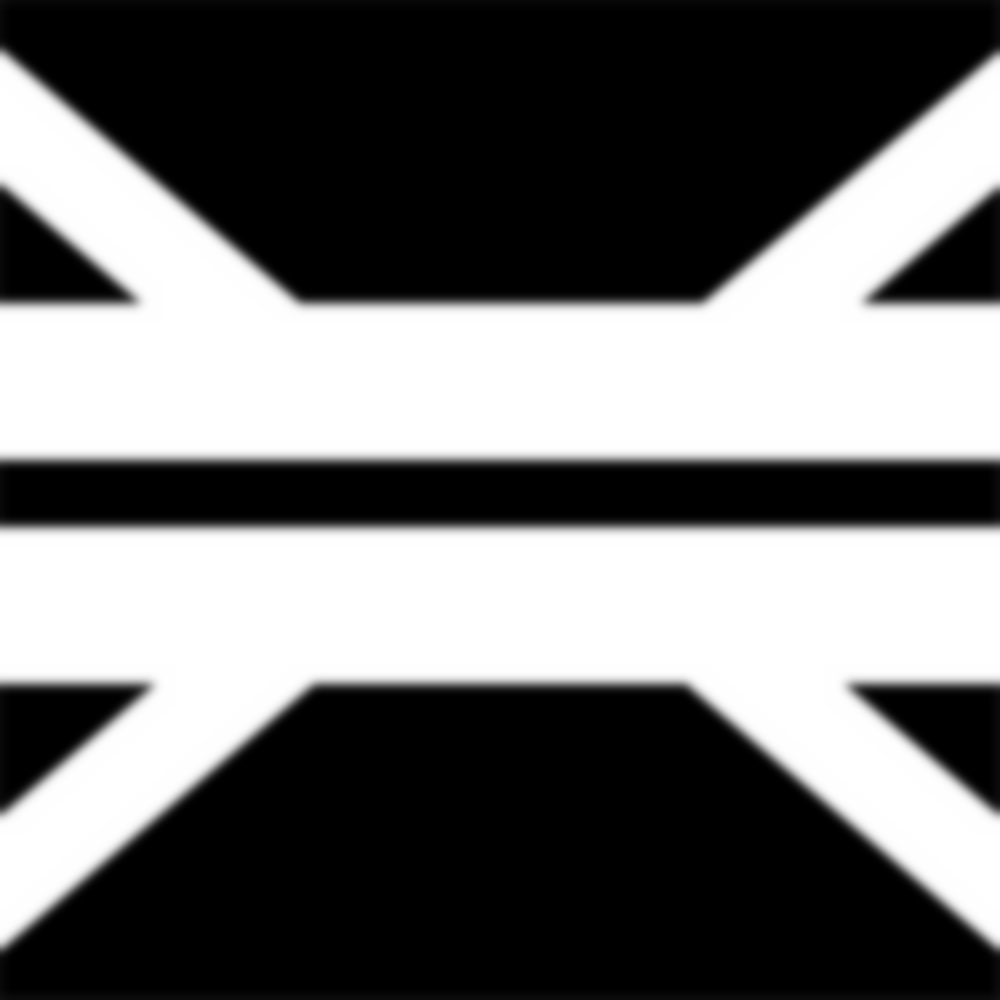
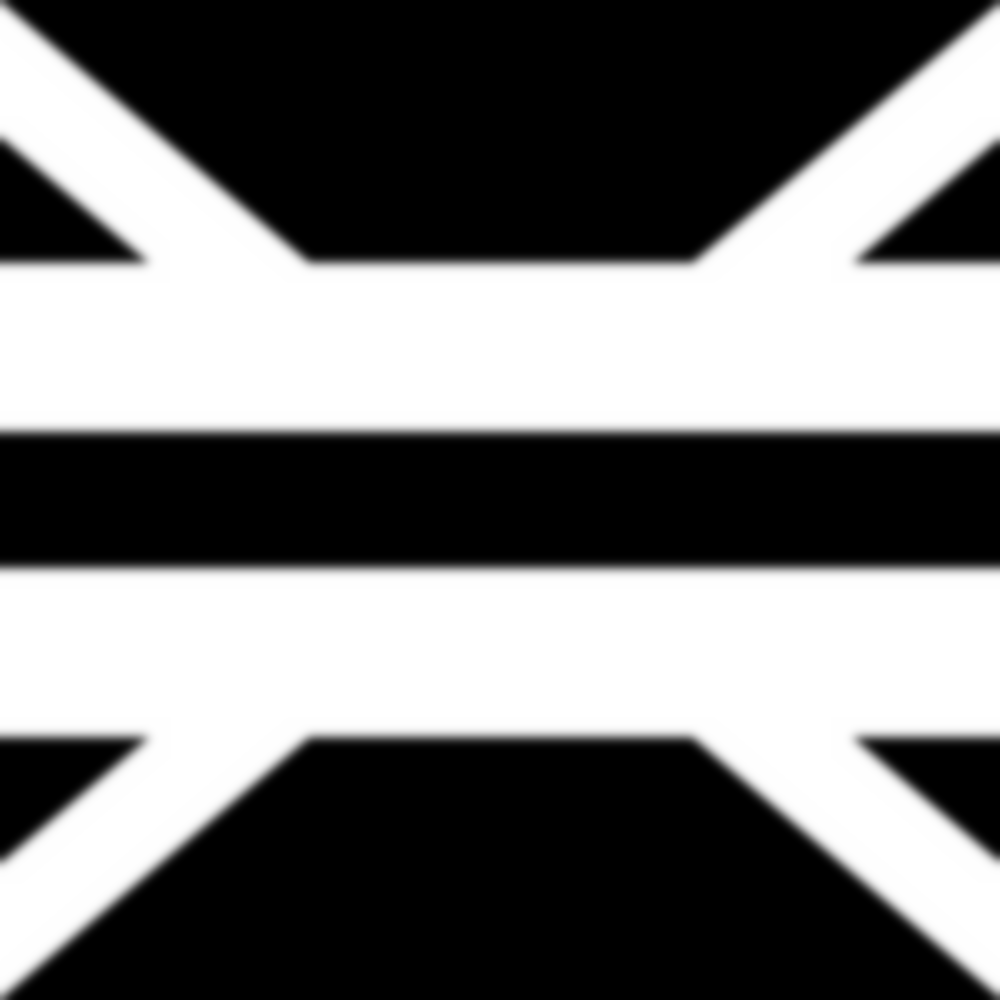
highway map updated, and follow-leader configuration made for highway map. Added turning points, correct on and off ramp behaviour. Need to update on ramp length

diff --git a/src/Simulator.cpp b/src/Simulator.cpp
@@ -52,6 +52,102 @@ Simulator::~Simulator()
 };
 
 /*******************************************************************************/
+// Draw highway roads and lanes
+/*******************************************************************************/
+void Simulator::draw_highway()
+{
+    // Parameters for the highway
+    int n_roads = 2;                                // Number of roads
+    int n_lanes = 2;                                // Number of lanes per road
+    double lane_width = 4.0 * globals.ROBOT_RADIUS; // Width of each lane
+    double road_length = globals.WORLD_SZ;          // Length of each road
+    double road_spacing = globals.WORLD_SZ / 3.3;   // Distance between roads
+    double ramp_length = road_length / 4.0;         // Length of on/off ramps
+    double ramp_angle = M_PI / 1.7;                 // Angle of the ramps to the road
+
+    // Ramp positions as variables
+    double on_ramp_start_pos = -road_length / 2.;
+    double on_ramp_end_pos = -road_length / 6.;
+    double off_ramp_start_pos = road_length / 6.0;
+    double off_ramp_end_pos = road_length / 1.8;
+
+    for (int road = 0; road < n_roads; ++road)
+    {
+        double road_v_offset = (road - 0.375) * road_spacing;
+        bool flip_ramps = (road % 2 != 0); // Flip ramps on one road
+
+        // Draw the main highway lanes
+        for (int lane = 0; lane < n_lanes; ++lane)
+        {
+            double lane_v_offset = road_v_offset + (0.5 * (1 - 2.0 * n_lanes) + lane) * lane_width;
+
+            Eigen::VectorXd start_point = Eigen::VectorXd{{-road_length / 2.0, lane_v_offset, 0.0, 0.0}};
+            Eigen::VectorXd end_point = Eigen::VectorXd{{road_length / 2.0, lane_v_offset, 0.0, 0.0}};
+
+            // DrawLine3D(
+            //     Vector3{static_cast<float>(start_point(0)), 0.0f, static_cast<float>(start_point(1))},
+            //     Vector3{static_cast<float>(end_point(0)), 0.0f, static_cast<float>(end_point(1))},
+            //     BLUE);
+        }
+
+        // Draw the on and off ramps for each road
+        for (int lane = 0; lane < n_lanes; ++lane)
+        {
+            double lane_v_offset = road_v_offset + (0.5 * (1 - 2.0 * n_lanes) + lane) * lane_width;
+
+            if (flip_ramps)
+            {
+                // On ramp (flipped horizontally)
+                double on_ramp_start_x = on_ramp_start_pos - ramp_length * cos(ramp_angle);
+                double on_ramp_start_y = lane_v_offset + ramp_length * sin(ramp_angle) - lane_width;
+                double on_ramp_end_x = on_ramp_end_pos;
+                double on_ramp_end_y = lane_v_offset;
+
+                // DrawLine3D(
+                //     Vector3{static_cast<float>(on_ramp_start_x), 0.0f, static_cast<float>(on_ramp_start_y)},
+                //     Vector3{static_cast<float>(on_ramp_end_x), 0.0f, static_cast<float>(on_ramp_end_y)},
+                //     GREEN);
+
+                // Off ramp
+                double off_ramp_start_x = off_ramp_start_pos;
+                double off_ramp_start_y = lane_v_offset;
+                double off_ramp_end_x = off_ramp_end_pos + ramp_length * cos(ramp_angle);
+                double off_ramp_end_y = lane_v_offset + ramp_length * sin(ramp_angle) + lane_width;
+
+                // DrawLine3D(
+                //     Vector3{static_cast<float>(off_ramp_start_x), 0.0f, static_cast<float>(off_ramp_start_y)},
+                //     Vector3{static_cast<float>(off_ramp_end_x), 0.0f, static_cast<float>(off_ramp_end_y)},
+                //     GREEN);
+            }
+            else
+            {
+                // On ramp (flipped to the other side)
+                double on_ramp_start_x = on_ramp_start_pos - ramp_length * cos(ramp_angle);
+                double on_ramp_start_y = lane_v_offset - ramp_length * sin(ramp_angle) + lane_width;
+                double on_ramp_end_x = on_ramp_end_pos;
+                double on_ramp_end_y = lane_v_offset;
+
+                // DrawLine3D(
+                //     Vector3{static_cast<float>(on_ramp_start_x), 0.0f, static_cast<float>(on_ramp_start_y)},
+                //     Vector3{static_cast<float>(on_ramp_end_x), 0.0f, static_cast<float>(on_ramp_end_y)},
+                //     GREEN);
+
+                // Off ramp (flipped to the other side)
+                double off_ramp_start_x = off_ramp_start_pos;
+                double off_ramp_start_y = lane_v_offset;
+                double off_ramp_end_x = off_ramp_end_pos + ramp_length * cos(ramp_angle);
+                double off_ramp_end_y = lane_v_offset - ramp_length * sin(ramp_angle) - lane_width;
+
+                // DrawLine3D(
+                //     Vector3{static_cast<float>(off_ramp_start_x), 0.0f, static_cast<float>(off_ramp_start_y)},
+                //     Vector3{static_cast<float>(off_ramp_end_x), 0.0f, static_cast<float>(off_ramp_end_y)},
+                //     GREEN);
+            }
+        }
+    }
+}
+
+/*******************************************************************************/
 // Drawing graphics.
 /*******************************************************************************/
 void Simulator::draw()
@@ -64,6 +160,13 @@ void Simulator::draw()
     BeginMode3D(graphics->camera3d);
     // Draw Ground
     DrawModel(graphics->groundModel_, graphics->groundModelpos_, 1., WHITE);
+
+    // Draw highway roads and lanes if in highway configuration
+    // if (globals.FORMATION == "highway")
+    // {
+    //     draw_highway();
+    // }
+
     // Draw Robots and Lines between masters and slaves
     for (auto &[rid, robot] : robots_)
     {
@@ -598,39 +701,71 @@ void Simulator::createOrDeleteRobots()
     }
     else if (globals.FORMATION == "highway")
     {
-        // Robots in a two-way junction, turning LEFT (RED), RIGHT (BLUE) or STRAIGHT (GREEN) with master-slave functionality.
         new_robots_needed_ = true; // This is needed so that more robots can be created as the simulation progresses.
-        if (clock_ % 20 == 0)
-        { // Arbitrary condition on the simulation time to create new robots
-            int n_roads = 4;
+        if (clock_ % 20 == 0 && next_rid_ < globals.NUM_ROBOTS)
+        {                    // Arbitrary condition on the simulation time to create new robots
+            int n_roads = 2; // Adjusted to match the highway configuration
             int road = random_int(0, n_roads - 1);
-            // We will define one road (the one going left) and then we can rotate the positions for other roads.
-            Eigen::Matrix4d rot;
-            rot.setZero();
-            rot.topLeftCorner(2, 2) << cos(PI / 2. * road), -sin(PI / 2. * road), sin(PI / 2. * road), cos(PI / 2. * road);
-            rot.bottomRightCorner(2, 2) << cos(PI / 2. * road), -sin(PI / 2. * road), sin(PI / 2. * road), cos(PI / 2. * road);
-
             int n_lanes = 2;
+            double lane_width = 4.0 * globals.ROBOT_RADIUS;
+            double road_spacing = globals.WORLD_SZ / 3.3;
+            double road_v_offset = (road - 0.375) * road_spacing;
+            bool flip_ramps = (road % 2 != 0); // Flip ramps on one road
+
             int lane = random_int(0, n_lanes - 1);
-            int turn = random_int(0, 2);
-            double lane_width = 4. * globals.ROBOT_RADIUS;
-            double lane_v_offset = (0.5 * (1 - 2. * n_lanes) + lane) * lane_width;
-            double lane_h_offset = (1 - turn) * (0.5 + lane - n_lanes) * lane_width;
-            double additional_distance = 0.5; // Define the additional distance behind the master
+            double lane_v_offset = road_v_offset + (0.5 * (1 - 2.0 * n_lanes) + lane) * lane_width;
+
+            double on_ramp_start_pos = -globals.WORLD_SZ / 2.0;
+            double on_ramp_end_pos = -globals.WORLD_SZ / 6.0;
+            double off_ramp_start_pos = globals.WORLD_SZ / 6.0;
+            double off_ramp_end_pos = globals.WORLD_SZ / 1.8;
+            double ramp_length = globals.WORLD_SZ / 4.0;
+            double ramp_angle = M_PI / 1.7;
+
+            // Define ramp positions based on the flip condition
+            double on_ramp_start_x, on_ramp_start_y, on_ramp_merge_x, on_ramp_merge_y;
+            double off_ramp_start_x, off_ramp_start_y, off_ramp_merge_x, off_ramp_merge_y;
+
+            if (flip_ramps)
+            {
+                on_ramp_start_x = on_ramp_start_pos - ramp_length * cos(ramp_angle);
+                on_ramp_start_y = lane_v_offset + ramp_length * sin(ramp_angle) - lane_width;
+                on_ramp_merge_x = on_ramp_end_pos;
+                on_ramp_merge_y = lane_v_offset;
+
+                off_ramp_start_x = off_ramp_start_pos;
+                off_ramp_start_y = lane_v_offset;
+                off_ramp_merge_x = off_ramp_end_pos + ramp_length * cos(ramp_angle);
+                off_ramp_merge_y = lane_v_offset + ramp_length * sin(ramp_angle) + lane_width;
+            }
+            else
+            {
+                on_ramp_start_x = on_ramp_start_pos - ramp_length * cos(ramp_angle);
+                on_ramp_start_y = lane_v_offset - ramp_length * sin(ramp_angle) + lane_width;
+                on_ramp_merge_x = on_ramp_end_pos;
+                on_ramp_merge_y = lane_v_offset;
+
+                off_ramp_start_x = off_ramp_start_pos;
+                off_ramp_start_y = lane_v_offset;
+                off_ramp_merge_x = off_ramp_end_pos + ramp_length * cos(ramp_angle);
+                off_ramp_merge_y = lane_v_offset - ramp_length * sin(ramp_angle) - lane_width;
+            }
 
             // Define starting, turning, and ending points for master robots
-            Eigen::VectorXd starting_master = rot * Eigen::VectorXd{{-globals.WORLD_SZ / 2. + additional_distance, lane_v_offset, globals.MAX_SPEED, 0.}};
-            Eigen::VectorXd turning_master = rot * Eigen::VectorXd{{lane_h_offset, lane_v_offset, (turn % 2) * globals.MAX_SPEED, (turn - 1) * globals.MAX_SPEED}};
-            Eigen::VectorXd ending_master = rot * Eigen::VectorXd{{lane_h_offset + (turn % 2) * globals.WORLD_SZ * 1. + additional_distance, lane_v_offset + (turn - 1) * globals.WORLD_SZ * 1., 0., 0.}};
+            Eigen::VectorXd starting_master = Eigen::VectorXd{{on_ramp_start_x, on_ramp_start_y, globals.MAX_SPEED, 0.0}};
+            Eigen::VectorXd turning_master_1 = Eigen::VectorXd{{on_ramp_merge_x, on_ramp_merge_y, globals.MAX_SPEED, 0.0}};
+            Eigen::VectorXd turning_master_2 = Eigen::VectorXd{{off_ramp_start_x, off_ramp_start_y, globals.MAX_SPEED, 0.0}};
+            Eigen::VectorXd ending_master = Eigen::VectorXd{{off_ramp_merge_x, off_ramp_merge_y, 0.0, 0.0}};
 
             // Define starting, turning, and ending points for slave robots
-            Eigen::VectorXd starting_slave = rot * Eigen::VectorXd{{-globals.WORLD_SZ / 2., lane_v_offset, globals.MAX_SPEED, 0.}};
-            Eigen::VectorXd turning_slave = turning_master; // Slave robots will have the same turning point
-            Eigen::VectorXd ending_slave = rot * Eigen::VectorXd{{lane_h_offset + (turn % 2) * globals.WORLD_SZ * 1., lane_v_offset + (turn - 1) * globals.WORLD_SZ * 1., 0., 0.}};
+            Eigen::VectorXd starting_slave = Eigen::VectorXd{{on_ramp_start_x, on_ramp_start_y, globals.MAX_SPEED, 0.0}};
+            Eigen::VectorXd turning_slave_1 = turning_master_1; // Slave robots will have the same turning points
+            Eigen::VectorXd turning_slave_2 = turning_master_2;
+            Eigen::VectorXd ending_slave = Eigen::VectorXd{{off_ramp_merge_x, off_ramp_merge_y, 0.0, 0.0}};
 
             // Create waypoints for master and slave robots
-            std::deque<Eigen::VectorXd> waypoints_master{starting_master, turning_master, ending_master};
-            std::deque<Eigen::VectorXd> waypoints_slave{starting_slave, turning_slave, ending_slave};
+            std::deque<Eigen::VectorXd> waypoints_master{starting_master, turning_master_1, turning_master_2, ending_master};
+            std::deque<Eigen::VectorXd> waypoints_slave{starting_slave, turning_slave_1, turning_slave_2, ending_slave};
 
             float robot_radius = globals.ROBOT_RADIUS;
 
@@ -644,6 +779,110 @@ void Simulator::createOrDeleteRobots()
             isMaster = false;
             Color robot_color_slave = DARKBLUE;
             robots_to_create.push_back(std::make_shared<Robot>(this, next_rid_++, waypoints_slave, robot_radius, robot_color_slave, isMaster, master_id));
+        }
+
+        // Delete robots if out of bounds
+        for (auto [rid, robot] : robots_)
+        {
+            if (abs(robot->position_(0)) > globals.WORLD_SZ / 2 || abs(robot->position_(1)) > globals.WORLD_SZ / 2)
+            {
+                robots_to_delete.push_back(robot);
+            }
+        }
+    }
+    else if (globals.FORMATION == "highway-follow-leader")
+    {
+        new_robots_needed_ = true;
+        // Robot count and time
+        if (clock_ % 20 == 0 && next_rid_ < globals.NUM_ROBOTS + 1) // Create 1 leader + globals.NUM_ROBOTS followers
+        {
+            int n_roads = 2; // Number of roads in the highway configuration
+            int n_lanes = 2;
+            double lane_width = 4.0 * globals.ROBOT_RADIUS;
+            double road_spacing = globals.WORLD_SZ / 3.3;
+            int road = random_int(0, n_roads - 1);
+            double road_v_offset = (road - 0.375) * road_spacing;
+            bool flip_ramps = (road % 2 != 0); // Flip ramps on one road
+
+            int lane = random_int(0, n_lanes - 1);
+            double lane_v_offset = road_v_offset + (0.5 * (1 - 2.0 * n_lanes) + lane) * lane_width;
+
+            double on_ramp_start_pos = -globals.WORLD_SZ / 2.0;
+            double on_ramp_end_pos = -globals.WORLD_SZ / 6.0;
+            double off_ramp_start_pos = globals.WORLD_SZ / 6.0;
+            double off_ramp_end_pos = globals.WORLD_SZ / 1.8;
+            double ramp_length = globals.WORLD_SZ / 4.0;
+            double ramp_angle = M_PI / 1.7;
+
+            // Define ramp positions based on the flip condition
+            double on_ramp_start_x, on_ramp_start_y, on_ramp_merge_x, on_ramp_merge_y;
+            double off_ramp_start_x, off_ramp_start_y, off_ramp_merge_x, off_ramp_merge_y;
+
+            if (flip_ramps)
+            {
+                on_ramp_start_x = on_ramp_start_pos - ramp_length * cos(ramp_angle);
+                on_ramp_start_y = lane_v_offset + ramp_length * sin(ramp_angle) - lane_width;
+                on_ramp_merge_x = on_ramp_end_pos;
+                on_ramp_merge_y = lane_v_offset;
+
+                off_ramp_start_x = off_ramp_start_pos;
+                off_ramp_start_y = lane_v_offset;
+                off_ramp_merge_x = off_ramp_end_pos + ramp_length * cos(ramp_angle);
+                off_ramp_merge_y = lane_v_offset + ramp_length * sin(ramp_angle) + lane_width;
+            }
+            else
+            {
+                on_ramp_start_x = on_ramp_start_pos - ramp_length * cos(ramp_angle);
+                on_ramp_start_y = lane_v_offset - ramp_length * sin(ramp_angle) + lane_width;
+                on_ramp_merge_x = on_ramp_end_pos;
+                on_ramp_merge_y = lane_v_offset;
+
+                off_ramp_start_x = off_ramp_start_pos;
+                off_ramp_start_y = lane_v_offset;
+                off_ramp_merge_x = off_ramp_end_pos + ramp_length * cos(ramp_angle);
+                off_ramp_merge_y = lane_v_offset - ramp_length * sin(ramp_angle) - lane_width;
+            }
+
+            // Define waypoints for the leader robot
+            std::deque<Eigen::VectorXd> waypoints_leader;
+            waypoints_leader.push_back(Eigen::VectorXd{{on_ramp_start_x, on_ramp_start_y, globals.MAX_SPEED, 0.0}});
+            waypoints_leader.push_back(Eigen::VectorXd{{on_ramp_merge_x, on_ramp_merge_y, globals.MAX_SPEED, 0.0}});
+            waypoints_leader.push_back(Eigen::VectorXd{{off_ramp_start_x, off_ramp_start_y, globals.MAX_SPEED, 0.0}});
+            waypoints_leader.push_back(Eigen::VectorXd{{off_ramp_merge_x, off_ramp_merge_y, 0.0, 0.0}});
+
+            float robot_radius = globals.ROBOT_RADIUS;
+            Color leader_color = DARKGREEN;
+
+            // Create the leader robot
+            robots_to_create.push_back(std::make_shared<Robot>(this, next_rid_++, waypoints_leader, robot_radius, leader_color, true, -1));
+
+            // Create follower robots
+            float min_circumference_spacing = 5.0 * globals.ROBOT_RADIUS;
+            double min_radius = 0.25 * globals.WORLD_SZ;
+            Eigen::VectorXd centre{{0.0, 0.0, 0.0, 0.0}};
+            for (int i = 1; i <= globals.NUM_ROBOTS; i++) // Create follower robots
+            {
+                // Use the leader's starting position for all follower robots
+                Eigen::VectorXd starting_position = Eigen::VectorXd{{on_ramp_start_x, on_ramp_start_y, globals.MAX_SPEED, 0.0}};
+                std::deque<Eigen::VectorXd> waypoints{starting_position, starting_position};
+
+                // Define robot radius and colour
+                float follower_radius = globals.ROBOT_RADIUS;
+                Color follower_color = ColorFromHSV(i * 360.0 / globals.NUM_ROBOTS, 1.0, 0.75);
+                robots_to_create.push_back(std::make_shared<Robot>(this, next_rid_++, waypoints, follower_radius, follower_color, true, -1));
+            }
+        }
+
+        if (!robots_.empty())
+        {
+            // Update the follower robots to follow the node in front of them
+            for (int i = 1; i <= globals.NUM_ROBOTS; i++)
+            {
+                auto target = robots_.at(i - 1);
+                auto follower = robots_.at(i);
+                Eigen::VectorXd offset_from_target = Eigen::VectorXd{{0.0, 0.0, 0.0, 0.0}};
+                follower->waypoints_[0] = target->position_ - offset_from_target;
+            }
         }
 
         // Delete robots if out of bounds

diff --git a/inc/Simulator.h b/inc/Simulator.h
@@ -74,6 +74,7 @@ public:
     /*******************************************************************************/
     void timestep();
 
+    void draw_highway();
     /*******************************************************************************/
     // Drawing graphics.
     /*******************************************************************************/
